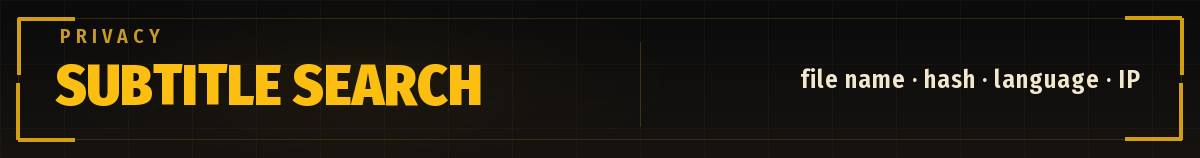
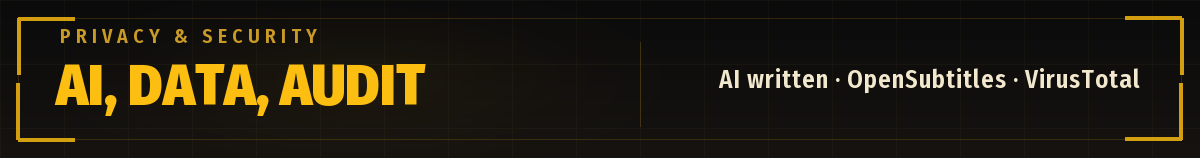
docs: reorder the readme, credit mpv and document space
What's inside now opens the page and the credits close it, so the overview answers what you get before the detail and the attribution sits where readers look for it. Credits name mpv itself, the player this repository only configures, and the wopian/mpv-config fork, and gain a marker of their own.

The privacy strip is retitled AI, DATA, AUDIT because its section no longer covers only the subtitle search, and Space joins the keybinding table and the highlighted keys of the keyboard map instead of hiding in the defaults sentence. The map's version chip moves to v1.3.0 as well.

Move the generator's Fira Sans Condensed to assets/banner-fonts so only the folder mpv loads for subtitles is called fonts/; SECURITY.md and AGENTS.md follow. Regenerating every image after the move and after the strip edits produced identical bytes for the untouched files.

Changed region(s): [[0.0308, 0.4051, 0.4008, 0.7342], [0.5858, 0.4304, 0.9558, 0.6076], [0.1233, 0.1772, 0.2775, 0.2785]]

diff --git a/assets/banner.py b/assets/banner.py
@@ -19,7 +19,7 @@ import numpy as np
 from PIL import Image, ImageDraw, ImageFont
 
 HERE = Path(__file__).resolve().parent
-FONT_DIR = HERE / "fonts"
+FONT_DIR = HERE / "banner-fonts"
 
 AMBER = (252, 190, 17)
 AMBER_DIM = (201, 154, 38)
@@ -242,8 +242,9 @@ def main():
         ("installation.png", "INSTALL", "ONE CLONE", "mpv 0.40+ \u00b7 uosc optional"),
         ("updating.png", "UPDATE", "PULL --FF-ONLY", "config and uosc move separately"),
         ("uninstalling.png", "UNINSTALL", "UOSC ONLY", "config, resume and fonts stay"),
-        ("credits.png", "CREDITS", "BUILT ON", "uosc \u00b7 thumbfast \u00b7 Merriweather"),
-        ("privacy.png", "PRIVACY", "SUBTITLE SEARCH", "file name \u00b7 hash \u00b7 language \u00b7 IP"),
+        ("credits.png", "CREDITS", "BUILT ON", "mpv \u00b7 uosc \u00b7 thumbfast \u00b7 Merriweather"),
+        ("privacy.png", "PRIVACY & SECURITY", "AI, DATA, AUDIT",
+         "AI written \u00b7 OpenSubtitles \u00b7 VirusTotal"),
     )
     for name, kicker, title, detail in strips:
         strip(a.out / name, kicker, title, detail)

diff --git a/README.md b/README.md
@@ -9,16 +9,6 @@ Clean scaling on any screen — SDR, HDR, standard or high DPI — amber subtitl
 ![mpv with uosc: timeline, thumbfast preview and Merriweather subtitles in amber](assets/interface.jpg)
 <sub>Wicked City | 1987 — Yoshiaki Kawajiri. Spoiler: it did not go smoothly at all.</sub>
 
-## 🎨 Design
-
-![Subtitle specimen: amber Merriweather over charcoal, with fill, outline, shadow and type tokens](assets/specimen.png?v=1.3.0)
-
-**The colour.** `#FCBE11` is the subtitle yellow I remember from the cinema and from TV at home: warm, familiar, a little nostalgic. On dark scenes it is easier on the eyes than pure white, with less glare over a two-hour film.
-
-**Merriweather Bold.** A screen serif with a tall x-height and low stroke contrast, so lowercase stays solid at subtitle size and survives ClearType. Bold 700 carries a *thin* outline instead of the usual fat black border and keeps its shape over busy footage, where airier serifs such as Source Serif or IBM Plex Serif lose detail. [More on the font](https://fontfyi.com/blog/source-serif-vs-merriweather/).
-
-Subtitle style: fill `#FCBE11` · outline `#1F1F1F` at 1.5 · size 40 · spacing 0.5 · shadow `#33000000` (ARGB, 20 % black) at 1 px.
-
 ## What's inside
 
 ![Overview banner: WHAT'S INSIDE — video, audio, subtitles and scripts](assets/inside.png)
@@ -58,43 +48,6 @@ Subtitle style: fill `#FCBE11` · outline `#1F1F1F` at 1.5 · size 40 · spacing
 
 Subtitles are not part of this path: `blend-subtitles=no` draws them on the OSD layer at window resolution. Debanding stays off because it costs GPU time and smears grain, and `b` is the only switch.
 
-## Keybindings
-
-![Keyboard map: amber keys mark every binding; the numpad sets volume and subtitle size, and the mouse panel shows the zoom and pan controls](assets/keys.png)
-
-| Key | Action |
-| --- | --- |
-| `1` / `2` / `3` / `4` | Audio profile: No Processing / Cinematic / Balanced / Night Mode |
-| `m` | Mute † |
-| `q` / `w` | Subtitles up / down (past 100 % they enter the black bars) |
-| `a` / `s` | Subtitle delay −100 ms / +100 ms |
-| `Ctrl`+wheel up/down | Zoom in / out (`video-zoom`) |
-| `Ctrl`+drag | Pan the zoomed image |
-| `F10` / `Shift+F10` | Screenshot without / with subtitles |
-| `Esc` | Leave fullscreen; when windowed, quit (a uosc menu closes first) |
-| `Shift+Esc` | Quit and save the position |
-| `b` | Toggle deband |
-| `←` / `→` | Seek −5 s / +5 s † |
-| `↑` / `↓` | Seek +60 s / −60 s † |
-| `[` / `]` | Speed down / up (×0.91 / ×1.1) † |
-| `Backspace` | Speed back to 1× † |
-| numpad `0`–`9` | Volume 0 %, 11.1 %, …, 88.9 %, 100 % † |
-| numpad `+` / `-` | Subtitle size ±2 (saved between runs) |
-| `C` | Autocrop now (it also runs 10 s after playback starts) |
-| `Ctrl+d` | Autodeint |
-
-† Flashes uosc's own timeline, volume or speed indicator instead of the built-in OSD bar.
-
-`f`, `Space`, `Alt+Backspace` (reset zoom) and the usual track/playlist keys are mpv defaults. Deliberately unbound: `r`, `t`, `e`, `x`, `z`, `Shift+z`, `v`, `Shift+q`, `5`–`8`, horizontal `9`/`0`, `/`, `*`, wheel up/down/left/right, `S`, `Ctrl+s`, `Alt+s`, `Ctrl+w`, `u`, `V`, `A`, `F`, `G`, `E`, `PrintScreen` and the volume media keys. Only `1`–`4` are horizontal number keys; the numpad digits set volume. `q` no longer quits: `Esc` and `Shift+Esc` are the quit keys (`Ctrl+c` still force-quits).
-
-**Closing** is two-step on purpose. In fullscreen, `Esc` leaves fullscreen and only the next press quits. `Shift+Esc` always quits and saves the position; the window close button also saves (`save-position-on-quit`). Resume keeps the position, not the audio profile — the script reasserts the selected profile on load.
-
-**Screenshots** — `F10` captures the frame, `Shift+F10` adds subtitles. PNG output; with `blend-subtitles=no` neither mode includes the letterbox bars. The old `s`/`S`/`Ctrl+s`/`Alt+s` and `PrintScreen` bindings are gone so `s` can adjust subtitle delay and the print key stays with the system.
-
-**Zoom** — `Ctrl`+wheel moves `video-zoom`: 0 is fit, 0.1 is about +7 %, and negative values zoom out past the frame. `Alt+Backspace` resets zoom, pan and alignment. `z`/`Shift+z` no longer touch the image.
-
-**Autocrop** — after 10 s of playback it detects the encoded black borders and crops them; `C` applies or undoes the crop at any time.
-
 ## 🎚 Audio profiles
 
 ![Audio banner: FOUR PROFILES — No Processing, Cinematic, Balanced, Night Mode](assets/audio.png)
@@ -120,6 +73,16 @@ Cinematic, Balanced and Night Mode use `loudnorm` in single-pass dynamic mode (`
 
 **Resume** restores position only: `watch-later-options-remove` drops `af`, `volume` and `mute` from new watch-later files, and the profile is reasserted on every load. Old watch-later files may still carry a volume; deleting them clears it.
 
+## 🎨 Design
+
+![Subtitle specimen: amber Merriweather over charcoal, with fill, outline, shadow and type tokens](assets/specimen.png?v=1.3.0)
+
+**The colour.** `#FCBE11` is the subtitle yellow I remember from the cinema and from TV at home: warm, familiar, a little nostalgic. On dark scenes it is easier on the eyes than pure white, with less glare over a two-hour film.
+
+**Merriweather Bold.** A screen serif with a tall x-height and low stroke contrast, so lowercase stays solid at subtitle size and survives ClearType. Bold 700 carries a *thin* outline instead of the usual fat black border and keeps its shape over busy footage, where airier serifs such as Source Serif or IBM Plex Serif lose detail. [More on the font](https://fontfyi.com/blog/source-serif-vs-merriweather/).
+
+Subtitle style: fill `#FCBE11` · outline `#1F1F1F` at 1.5 · size 40 · spacing 0.5 · shadow `#33000000` (ARGB, 20 % black) at 1 px.
+
 ## 💬 Subtitles: adaptive placement
 
 ![Subtitles banner: ADAPTIVE PLACEMENT — amber, size and delay](assets/subtitles.png)
@@ -127,6 +90,44 @@ Cinematic, Balanced and Night Mode use `loudnorm` in single-pass dynamic mode (`
 Subtitles are laid out against the window instead of the video image: `blend-subtitles=no` keeps them on the OSD layer, so they stay sharp at any window size and never stretch with the picture. `sub-use-margins=yes` and `sub-ass-force-margins=yes` let them use the whole frame, and `w` moves them into the bottom black bar of any letterboxed source — 21:9 or 4:3, same behaviour. `sub-pos` runs 0–150; 100 is the normal spot just above the bottom edge, and `w` (or ~100–106) sits inside the bar. Much higher approaches the window edge and can clip, especially with two lines.
 
 Numpad `+` / `-` change the size; `scripts/subtitle-size.lua` writes every change to `subtitle-size.txt` and restores it at startup. The file is gitignored — delete it to fall back to `sub-font-size=40`.
+
+## Keybindings
+
+![Keyboard map: amber keys mark every binding; the numpad sets volume and subtitle size, and the mouse panel shows the zoom and pan controls](assets/keys.png)
+
+| Key | Action |
+| --- | --- |
+| `1` / `2` / `3` / `4` | Audio profile: No Processing / Cinematic / Balanced / Night Mode |
+| `m` | Mute † |
+| `Space` | Pause / resume (mpv default) |
+| `q` / `w` | Subtitles up / down (past 100 % they enter the black bars) |
+| `a` / `s` | Subtitle delay −100 ms / +100 ms |
+| `Ctrl`+wheel up/down | Zoom in / out (`video-zoom`) |
+| `Ctrl`+drag | Pan the zoomed image |
+| `F10` / `Shift+F10` | Screenshot without / with subtitles |
+| `Esc` | Leave fullscreen; when windowed, quit (a uosc menu closes first) |
+| `Shift+Esc` | Quit and save the position |
+| `b` | Toggle deband |
+| `←` / `→` | Seek −5 s / +5 s † |
+| `↑` / `↓` | Seek +60 s / −60 s † |
+| `[` / `]` | Speed down / up (×0.91 / ×1.1) † |
+| `Backspace` | Speed back to 1× † |
+| numpad `0`–`9` | Volume 0 %, 11.1 %, …, 88.9 %, 100 % † |
+| numpad `+` / `-` | Subtitle size ±2 (saved between runs) |
+| `C` | Autocrop now (it also runs 10 s after playback starts) |
+| `Ctrl+d` | Autodeint |
+
+† Flashes uosc's own timeline, volume or speed indicator instead of the built-in OSD bar.
+
+`f` (fullscreen) and the usual track/playlist keys are mpv defaults. Deliberately unbound: `r`, `t`, `e`, `x`, `z`, `Shift+z`, `v`, `Shift+q`, `5`–`8`, horizontal `9`/`0`, `/`, `*`, wheel up/down/left/right, `S`, `Ctrl+s`, `Alt+s`, `Ctrl+w`, `u`, `V`, `A`, `F`, `G`, `E`, `PrintScreen` and the volume media keys. Only `1`–`4` are horizontal number keys; the numpad digits set volume. `q` no longer quits: `Esc` and `Shift+Esc` are the quit keys (`Ctrl+c` still force-quits).
+
+**Closing** is two-step on purpose. In fullscreen, `Esc` leaves fullscreen and only the next press quits. `Shift+Esc` always quits and saves the position; the window close button also saves (`save-position-on-quit`). Resume keeps the position, not the audio profile — the script reasserts the selected profile on load.
+
+**Screenshots** — `F10` captures the frame, `Shift+F10` adds subtitles. PNG output; with `blend-subtitles=no` neither mode includes the letterbox bars. The old `s`/`S`/`Ctrl+s`/`Alt+s` and `PrintScreen` bindings are gone so `s` can adjust subtitle delay and the print key stays with the system.
+
+**Zoom** — `Ctrl`+wheel moves `video-zoom`: 0 is fit, 0.1 is about +7 %, and negative values zoom out past the frame. `Alt+Backspace` resets zoom, pan and alignment. `z`/`Shift+z` no longer touch the image.
+
+**Autocrop** — after 10 s of playback it detects the encoded black borders and crops them; `C` applies or undoes the crop at any time.
 
 ## 📥 Installation
 
@@ -199,7 +200,7 @@ See [CHANGELOG.md](CHANGELOG.md) for release notes.
 
 **How it was written.** Most of the code — `mpv.conf`, `input.conf`, `scripts/`, the installers and these docs — was generated with **DeepSeek V4.1 Flash Free** in OpenCode, then reviewed with **Claude Sonnet 5.5** and **GPT-6 Luna**. The 1.3.0 files were also scanned with VirusTotal and other analysis tools before publication.
 
-![Privacy banner: SUBTITLE SEARCH — OpenSubtitles receives the file name, hash, language and IP](assets/privacy.png)
+![Privacy and security banner: AI, DATA, AUDIT — code written with AI, what OpenSubtitles receives, VirusTotal scans](assets/privacy.png)
 
 The subtitle search inside uosc is a third-party call, not a local feature. A search sends **OpenSubtitles** the video file name without its extension, the file hash when available, the languages and page you asked for, and your IP address; downloading a subtitle also sends its id. The requests come from `ziggy`, the helper binary bundled with uosc.
 
@@ -209,11 +210,11 @@ That audit covers published code, not live traffic: it cannot show what OpenSubt
 
 The wider review — provenance, installer guarantees, what was fixed and what it cannot prove — is in [SECURITY.md](SECURITY.md).
 
-## Credits
+## 🙏 Credits
 
-![Credits banner: BUILT ON — uosc, thumbfast and Merriweather](assets/credits.png)
+![Credits banner: BUILT ON — mpv, uosc, thumbfast and Merriweather](assets/credits.png)
 
-This project is a fork of [wopian/mpv-config](https://github.com/wopian/mpv-config). Interface by [uosc](https://github.com/tomasklaen/uosc) (LGPL-2.1); thumbnails by [thumbfast](https://github.com/po5/thumbfast) (MPL-2.0); Merriweather under the SIL OFL (see [`Merriweather-OFL.txt`](Merriweather-OFL.txt)).
+The player is [mpv](https://mpv.io/), by the [mpv project](https://github.com/mpv-player/mpv) (GPL-2.0+); this repository only configures it. It is a fork of [wopian/mpv-config](https://github.com/wopian/mpv-config). Interface by [uosc](https://github.com/tomasklaen/uosc) (LGPL-2.1); thumbnails by [thumbfast](https://github.com/po5/thumbfast) (MPL-2.0); Merriweather under the SIL OFL (see [`Merriweather-OFL.txt`](Merriweather-OFL.txt)).
 
 [release]:https://github.com/mfascioli/mpv-config/releases
 [release badge]:https://flat.badgen.net/github/release/mfascioli/mpv-config

diff --git a/AGENTS.md b/AGENTS.md
@@ -154,6 +154,8 @@ is enabled (`volume=right` in the local `uosc.conf`).
 ## Keybindings and closing
 
 - `q`/`w`: subtitles up/down. `a`/`s`: subtitle delay. `b`: deband.
+- `Space`: mpv's own pause/resume, left on the default. It is listed in the
+  README table and highlighted in the keyboard map like any other binding.
 - `Ctrl`+wheel: `video-zoom` in/out with an OSD value; `Alt+Backspace` resets
   zoom, pan and alignment. `z`/`Shift+z` stay free.
 - `Ctrl`+drag pans the zoomed image; right click opens the context menu; left
@@ -176,8 +178,14 @@ is enabled (`volume=right` in the local `uosc.conf`).
 - Concise and scannable: short sections, tables over prose, bold lead-ins.
   Keep the English README under about 18 KB and the Spanish mirror under about
   20 KB; Spanish runs longer for the same content, not because it may say more.
-- At most a handful of emojis, only as section markers (audio, subtitles,
-  installation, updating, uninstalling, design, privacy). No emoji in body text.
+- At most a handful of emojis, only as section markers (audio, design,
+  subtitles, installation, updating, uninstalling, privacy and security,
+  credits). No emoji in body text.
+- Section order: **What's inside**, **Audio profiles**, **Design**,
+  **Subtitles**, **Keybindings**, **Installation** (with updating and
+  uninstalling under it), **Privacy and security**, **Credits**. The overview
+  comes first so the page answers "what do I get" before the detail, and the
+  credits close the page after the privacy notice.
 - No marketing tone and no repetition between the summary and the dedicated
   sections. Keep the existing anchors working.
 - CHANGELOG: one entry per release, grouped by feature, in English.
@@ -212,10 +220,15 @@ is enabled (`volume=right` in the local `uosc.conf`).
   `audio.png`, `subtitles.png`, `installation.png`, `updating.png`,
   `uninstalling.png`, `credits.png`, `privacy.png` — come from
   `assets/banner.py` (Python + Pillow) using the bundled Fira Sans Condensed in
-  `assets/fonts/` (SIL OFL), with the same palette, grid and HUD frame as the
-  keyboard map. `--version` sets the chip on the two large images
+  `assets/banner-fonts/` (SIL OFL), with the same palette, grid and HUD frame as
+  the keyboard map. Those Fira files belong to the generator only: `fonts/` is
+  what mpv loads for subtitles, and `assets/banner-fonts/` never reaches the
+  player. `--version` sets the chip on the two large images
   (`banner.png`, `specimen.png`); rerun `python3 assets/banner.py` after
-  changing text or releasing. The audio strip lists the four profile names.
+  changing text or releasing. The audio strip lists the four profile names and
+  the privacy strip names the three topics of its section — AI, data, audit —
+  because that section now covers authorship, the OpenSubtitles request and the
+  scans, not only the subtitle search.
   The specimen is the only image in **Design** and sits directly under the
   heading: it already carries the `DESIGN` / `AMBER, NOT WHITE` header, so do
   not add a strip there.
@@ -312,6 +325,7 @@ guarantees, fixes and limits. Keep it in step with the code.
 | --- | --- |
 | `mpv.conf` | playback, scaling, subtitles, volume, resume |
 | `input.conf` | bindings and freed keys |
+| `fonts/Merriweather-Bold.ttf` | subtitle font, loaded by mpv through `~~/fonts` (uosc adds `fonts/uosc_*` beside it) |
 | `scripts/audio-norm.lua` | four audio profiles |
 | `scripts/subtitle-size.lua` | subtitle-size persistence (8–200, default 40) |
 | `scripts/esc-quit.lua` | two-step Esc close |
@@ -329,7 +343,7 @@ guarantees, fixes and limits. Keep it in step with the code.
 | `assets/specimen.png` | subtitle specimen and the only image in **Design** (carries the version chip) |
 | `assets/inside.png` | strip for **What's inside** |
 | `assets/audio.png` `subtitles.png` `installation.png` `updating.png` `uninstalling.png` `credits.png` `privacy.png` | section strips |
-| `assets/fonts/` | Fira Sans Condensed used by the banner generator (OFL) |
+| `assets/banner-fonts/` | Fira Sans Condensed and its OFL licence, for `assets/banner.py` only; mpv never loads it |
 | `README.md` | user-facing documentation (English) |
 | `README.es.md` | the same documentation in Spanish |
 | `SECURITY.md` | audit summary, provenance, installer guarantees, limits |

diff --git a/SECURITY.md b/SECURITY.md
@@ -23,7 +23,7 @@ PNG/JPEG images and TTF fonts.
 | `scripts/thumbfast.lua` | [po5/thumbfast](https://github.com/po5/thumbfast), MPL-2.0 |
 | `scripts/autocrop.lua`, `autodeint.lua`, `autoload.lua` | upstream mpv `TOOLS/lua`, with local patches |
 | `fonts/Merriweather-Bold.ttf` | Merriweather, SIL OFL (`Merriweather-OFL.txt`) |
-| `assets/fonts/*.ttf` | Fira Sans Condensed, SIL OFL (`assets/fonts/OFL.txt`) |
+| `assets/banner-fonts/*.ttf` | Fira Sans Condensed, SIL OFL (`assets/banner-fonts/OFL.txt`); used only by `assets/banner.py` |
 | `scripts/uosc/` | not shipped; installed from the official uosc release |
 
 Local patches to the upstream scripts are limited to hardening: a nil guard in
